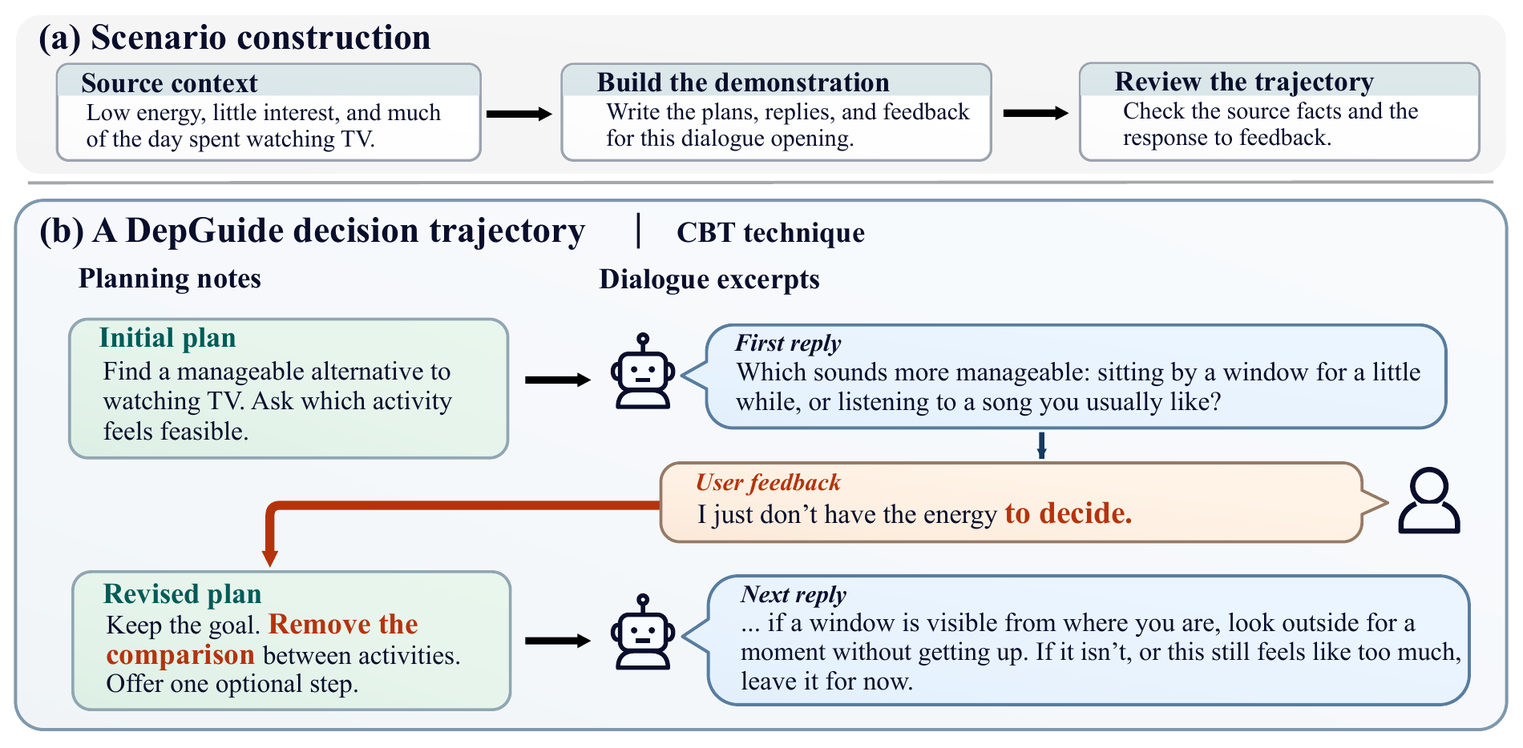
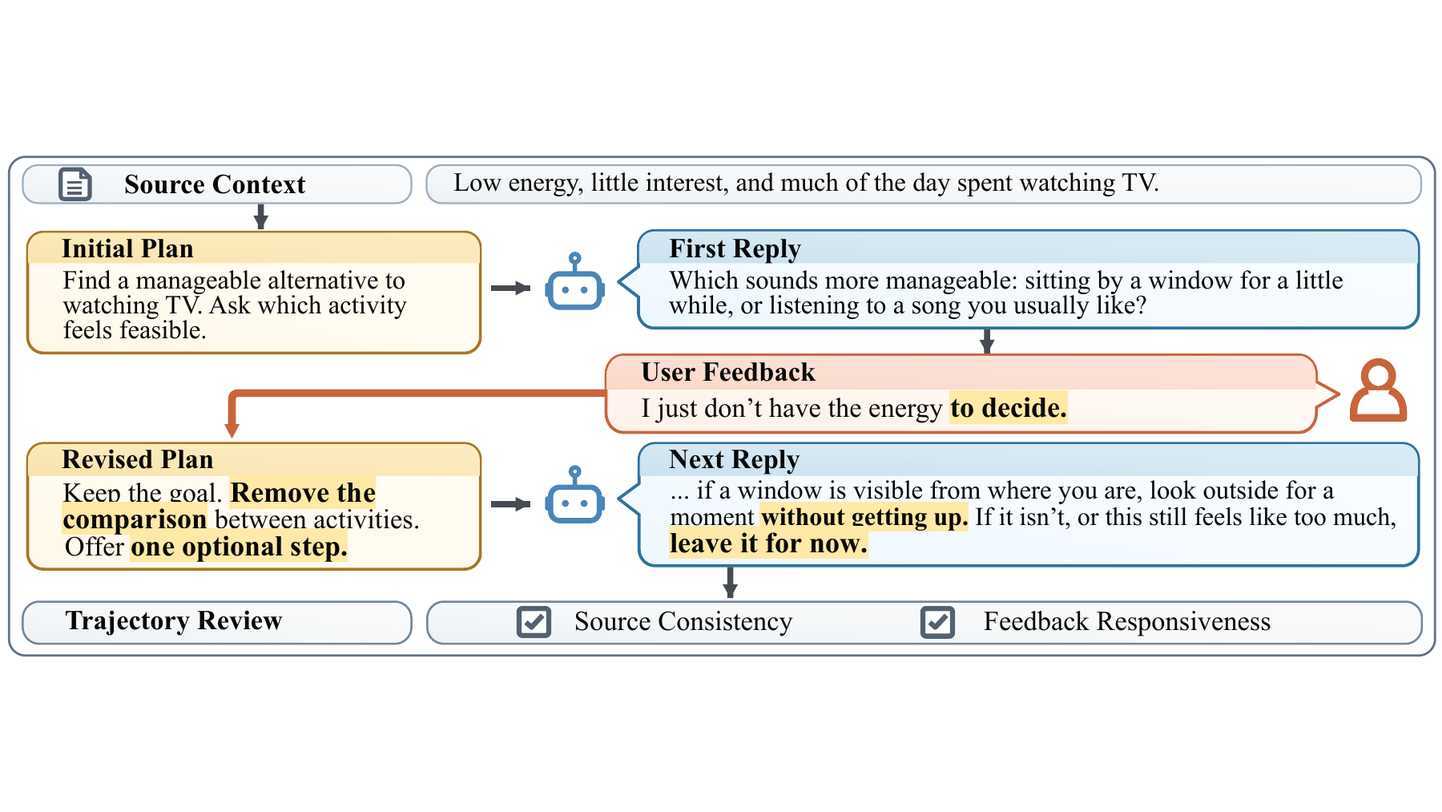
Sync README and figures with the latest AIDA manuscript

diff --git a/README.md b/README.md
@@ -1,13 +1,15 @@
 # AIDA
 
-*AIDA: Unifying Multimodal Depression Assessment And Intervention Through Closed-Loop Planning*
+*AIDA: Unifying Multimodal Depression Assessment and Intervention through Closed-Loop Planning*
 
-**Assessment-Informed Dialogue Adaptation (AIDA)** connects multimodal depression assessment to a concrete intervention plan. When a user explains why a proposed step is difficult, the planner revises that step within the selected CBT technique.
+**Assessment-Informed Dialogue Adaptation (AIDA)** unifies multimodal depression assessment and intervention through an explicit, revisable plan. Assessment guides the first action, and user feedback guides subsequent revisions within the selected cognitive behavioral therapy (CBT) technique.
+
+Yibo Wang, Jisheng Dang, Bimei Wang, Jingwen Zhao, Wenjun Ma, Wei-Shi Zheng, Qi Tian, and Bin Hu.
 
 <details>
 <summary>Paper abstract</summary>
 
-Multimodal interviews can reveal the severity of depressive symptoms. Using that assessment to guide psychological intervention requires choosing a first step that fits the person’s goals and adapting it when they explain what makes it difficult. We introduce Assessment-Informed Dialogue Adaptation (AIDA), a closed-loop framework that connects multimodal depression assessment to intervention through an explicit, revisable plan. AIDA estimates the severity of depressive symptoms from facial, acoustic, and linguistic cues. Its planner uses the user’s concern, goal, readiness to act, and available severity estimate to select a cognitive behavioral therapy (CBT) technique and specify an action. A dialogue model proposes that action. When the user reports an obstacle, the planner adjusts the focus or difficulty of the exercise within the same technique, guiding the model’s next reply. We also introduce DepGuide, a bilingual dataset and interactive benchmark comprising 1,292 decision trajectories. Each trajectory records the plans and replies before and after user feedback, providing supervision for planning, execution, and revision. Paired comparisons test how access to a severity score influences the initial plan and how revising that plan changes the next action. On the Wizard-of-Oz subset of the Distress Analysis Interview Corpus (DAIC-WOZ), AIDA predicts eight-item Patient Health Questionnaire (PHQ-8) scores with a mean absolute error (MAE) of 3.37 points. In automated evaluation on 200 DepGuide test scenarios, it scores 5.275 out of 6 for intervention quality across two replies, compared with 4.480 for its Qwen3.5-9B backbone. Even when the dialogue model receives the same history and user feedback, using the revised plan improves the combined score for feedback fit and action feasibility by 0.333 points out of 4. Code is available at [the AIDA repository](https://github.com/YiboWang2002/AIDA).
+Multimodal interviews can be used to estimate depressive symptom severity, yet translating such an assessment into psychological intervention requires selecting an initial step that aligns with the individual's goals and revising it in response to reported difficulties. To address this challenge, we propose Assessment-Informed Dialogue Adaptation (AIDA), a closed-loop framework that links multimodal depression assessment to intervention through an explicit and revisable plan. AIDA estimates depressive symptom severity from facial, acoustic, and linguistic cues. A planner then uses this estimate, when available, together with the user's concern, goal, and readiness to act to select a cognitive behavioral therapy (CBT) technique and a concrete action, which a dialogue model proposes. When the user reports an obstacle, the planner revises the focus or adjusts the difficulty of the exercise within the same technique, and the revised plan guides the next reply. We also introduce DepGuide, a bilingual dataset and interactive benchmark of 1,292 decision trajectories that record plans and replies before and after user feedback, providing supervision for planning, execution, and revision. Paired comparisons on DepGuide test how access to a severity score influences the plan and how revising that plan changes the next action. On DAIC-WOZ, AIDA predicts eight-item Patient Health Questionnaire (PHQ-8) scores with a mean absolute error (MAE) of 3.37, the lowest among the compared methods. On 200 DepGuide test scenarios, it reaches an automated intervention quality score of 5.275, the highest among eight systems, including strong recent large language models, and above the 4.480 of its Qwen3.5-9B backbone. With dialogue history and user feedback held fixed, following the revised plan rather than the original one improves the combined score for feedback fit and action feasibility by 0.333. Code is available at [the AIDA repository](https://github.com/YiboWang2002/AIDA).
 
 </details>
 
@@ -17,32 +19,30 @@ Multimodal interviews can reveal the severity of depressive symptoms. Using that
 
 ### Intervention quality on DepGuide
 
-**AIDA scored 5.275/6 across 200 test scenarios, ranking third among ten systems.** Its Qwen3.5-9B backbone scored 4.480/6 under direct generation. The paired gain was **0.795 points** (95% CI [0.566, 1.030]). The largest difference was in action feasibility, which rose from 1.375 to 1.680 out of 2.
+**AIDA scores 5.275/6 across 200 test scenarios, the highest total among the eight systems compared in the paper.** Its Qwen3.5-9B backbone scores 4.480/6 under direct generation. The paired gain is **0.795**, with a 95% CI from 0.566 to 1.030. Action feasibility rises from 1.375 to 1.680 out of 2.
 
-**Table III. Two-reply intervention quality.** Each system receives the same opening. GPT-6 Luna simulates the user's feedback in response to that system's first reply and scores the completed exchange in a separate call with system identities hidden. Each dimension ranges from 0 to 2 and the total from 0 to 6. Bold scores mark the column maxima.
+**Table III. Two-reply intervention quality.** Systems receive identical openings, available synthetic PHQ-8 totals, and feedback intents. GPT-6 Luna generates feedback and scores exchanges in separate calls. Scores range from 0 to 2 per dimension and from 0 to 6 overall. Gap to AIDA is AIDA's mean total minus each baseline's. Bold scores indicate the best results in this comparison.
 
-| Method | Goal fit ↑ | Action feasibility ↑ | Feedback adaptation ↑ | Total ↑ |
-| --- | :---: | :---: | :---: | :---: |
-| [CBT-LLM](https://aclanthology.org/2024.lrec-main.261/) | 0.737 | 0.490 | 0.323 | 1.551 |
-| [CAMEL-LLAMA3](https://aclanthology.org/2024.findings-emnlp.832/) | 1.080 | 0.920 | 1.025 | 3.025 |
-| [Qwen-Max](https://help.aliyun.com/en/model-studio/qwen-max) | 1.565 | 1.305 | 1.490 | 4.360 |
-| [Qwen3.5-9B](https://huggingface.co/Qwen/Qwen3.5-9B) | 1.510 | 1.375 | 1.595 | 4.480 |
-| [Gemini-3.5-Flash](https://deepmind.google/models/model-cards/gemini-3-5-flash/) | 1.680 | 1.575 | 1.800 | 5.055 |
-| [GLM-5.3-Flash](https://huggingface.co/zai-org/GLM-5.3-Flash) | 1.730 | 1.585 | 1.740 | 5.055 |
-| [DeepSeek-V4-Flash](https://arxiv.org/abs/2606.19348) | 1.750 | 1.620 | 1.755 | 5.125 |
-| [Grok-4.6](https://x.ai/news/grok-4-6) | 1.825 | **1.775** | 1.865 | 5.465 |
-| [GPT-5.5](https://openai.com/index/gpt-5-5-system-card/) | **1.920** | 1.730 | **1.905** | **5.555** |
-| **AIDA (Ours)** | 1.810 | 1.680 | 1.785 | 5.275 |
+| Method | Goal fit ↑ | Action feasibility ↑ | Feedback adaptation ↑ | Total ↑ | Gap to AIDA |
+| --- | :---: | :---: | :---: | :---: | :---: |
+| [CBT-LLM](https://aclanthology.org/2024.lrec-main.261/) | 0.737 | 0.490 | 0.323 | 1.551 | +3.724 |
+| [CAMEL-LLAMA3](https://aclanthology.org/2024.findings-emnlp.832/) | 1.080 | 0.920 | 1.025 | 3.025 | +2.250 |
+| [Qwen-Max](https://help.aliyun.com/en/model-studio/qwen-max) | 1.565 | 1.305 | 1.490 | 4.360 | +0.915 |
+| [Qwen3.5-9B](https://huggingface.co/Qwen/Qwen3.5-9B) | 1.510 | 1.375 | 1.595 | 4.480 | +0.795 |
+| [Gemini-3.5-Flash](https://deepmind.google/models/model-cards/gemini-3-5-flash/) | 1.680 | 1.575 | **1.800** | 5.055 | +0.220 |
+| [GLM-5.3-Flash](https://huggingface.co/zai-org/GLM-5.3-Flash) | 1.730 | 1.585 | 1.740 | 5.055 | +0.220 |
+| [DeepSeek-V4-Flash](https://arxiv.org/abs/2606.19348) | 1.750 | 1.620 | 1.755 | 5.125 | +0.150 |
+| **AIDA (Ours)** | **1.810** | **1.680** | 1.785 | **5.275** | — |
 
 <p align="center">
-  <a href="assets/intervention-profiles.png"><img src="assets/intervention-profiles.png" width="1000" alt="Ten systems compared by mean two-reply score, with 95% confidence intervals. A second panel compares feedback adaptation across five user intents."></a>
+  <a href="assets/intervention-profiles.png"><img src="assets/intervention-profiles.png" width="1000" alt="Eight systems compared by mean two-reply score. The right panel compares AIDA, Qwen3.5-9B, DeepSeek-V4-Flash, and CAMEL-LLAMA3 across five feedback intents."></a>
 </p>
 
-*Figure 4. The bars show total scores with 95% confidence intervals. The right panel separates five kinds of user feedback. AIDA scored higher than its backbone in all five. When users requested an explanation (46 scenarios), feedback adaptation averaged 1.870/2 for AIDA and 1.435/2 for the backbone.*
+*Figure 4. Intervention quality on 200 DepGuide test scenarios, scored by GPT-6 Luna. Left, mean totals out of 6 combine goal fit, action feasibility, and feedback adaptation, each out of 2. Right, mean feedback adaptation out of 2 across five prespecified feedback intents for AIDA, Qwen3.5-9B, DeepSeek-V4-Flash, and CAMEL-LLAMA3. Higher scores indicate better performance.*
 
 ### PHQ-8 prediction on DAIC-WOZ
 
-**Table II. Depression severity estimation on the 47 official test interviews.** AIDA combines participant speech transcripts, acoustic descriptors, and facial measurements to estimate one PHQ-8 total per interview. MAE and RMSE are measured in PHQ-8 points before clipping. NR indicates that the comparison did not report an RMSE.
+**Table II. PHQ-8 severity estimation on 47 official DAIC-WOZ test interviews. Baseline results come from cited studies. Both AIDA variants use the same interviews. MAE and RMSE are measured on the PHQ-8 scale.**
 
 | Method | Input | MAE ↓ | RMSE ↓ |
 | --- | --- | :---: | :---: |
@@ -50,9 +50,9 @@ Multimodal interviews can reveal the severity of depressive symptoms. Using that
 | [Topic](https://doi.org/10.1145/3133944.3133945) | Text, audio, visual | 3.96 | 4.99 |
 | [RF](https://doi.org/10.1145/3133944.3133951) | Text | 3.87 | 4.98 |
 | [Dual encoder](https://doi.org/10.3389/fpsyt.2023.1160291) | Text | 3.80 | 4.67 |
-| [Symptom Prediction](https://doi.org/10.1186/s40708-023-00185-9) | Text | 3.78 | NR |
-| [MeBERT+ALL](https://aclanthology.org/2024.clinicalnlp-1.28/) | Text and lexicons | 3.59 | NR |
-| [Agarwal et al.](https://aclanthology.org/2024.lrec-main.87/) | Text | 3.52 | NR |
+| [Symptom Prediction](https://doi.org/10.1186/s40708-023-00185-9) | Text | 3.78 | — |
+| [MeBERT+ALL](https://aclanthology.org/2024.clinicalnlp-1.28/) | Text and lexicons | 3.59 | — |
+| [Agarwal et al.](https://aclanthology.org/2024.lrec-main.87/) | Text | 3.52 | — |
 | [LMIQ](https://aclanthology.org/2024.findings-emnlp.23/) | Text | 3.46 | 4.30 |
 | AIDA text (Ours) | Text | 3.38 | 4.22 |
 | **AIDA (Ours)** | Text, audio, visual | **3.37** | **4.21** |
@@ -65,7 +65,7 @@ Multimodal interviews can reveal the severity of depressive symptoms. Using that
   <a href="assets/motivation.png"><img src="assets/motivation.png" width="640" alt="A teal arrow leads from the low-energy assessment to an initial plan. Gray arrows link model replies and user feedback, and an orange arrow carries the revised plan into the next turn. In the example, the model suggests returning to an unfinished bird and stopping after one feather."></a>
 </p>
 
-*Figure 1. A PHQ-8 cue of low energy motivates one quick sketch. A daunting blank page shifts the starting point to an unfinished bird. When the user feels obliged to finish it, the planner suggests stopping after one feather.*
+*Figure 1. AIDA extends standard dialogue, shown in gray, by introducing assessment-guided initial planning in teal and feedback-driven plan revision in orange. Assessment guides a manageable first step, while successive feedback refines where to start and where to stop.*
 
 **The assessment informs the planner. The user's feedback informs the revision.** The planner can take a PHQ-8 total alongside the opening concern, select one of seven CBT techniques, and write an initial plan. The executor uses the technique, plan, and dialogue history to generate the first reply. After the user responds, the planner receives its previous plan and the updated history. In Figure 2, the request for one detail changes the next question while the technique remains Reality Testing.
 
@@ -73,7 +73,7 @@ Multimodal interviews can reveal the severity of depressive symptoms. Using that
   <a href="assets/depreplan-framework.png"><img src="assets/depreplan-framework.png" width="1000" alt="Video, audio and text inform an optional assessment. A planner selects a CBT technique and plans the reply. User feedback leads it to revise the plan before the dialogue model responds again."></a>
 </p>
 
-*Figure 2. The upper panel traces assessment, planning, and dialogue. The lower panel shows the actual change to the plan in the illustrated exchange.* [Enlarge the revision panel](assets/feedback-guided-revision.png)
+*Figure 2. Overview of AIDA. In panel a, the PHQ-8 score from multimodal assessment enters the planner alongside the user's concern to guide CBT technique selection and initial planning. The dialogue model generates a reply from the plan, and user feedback returns to the planner for revision. Panel b illustrates revision within Reality Testing, narrowing incident recall to one concrete detail.*
 
 ## The DepGuide benchmark
 
@@ -83,9 +83,9 @@ DepGuide is a bilingual benchmark built around a decision trajectory. Each scena
   <a href="assets/depguide-trajectory.png"><img src="assets/depguide-trajectory.png" width="1000" alt="A worked DepGuide trajectory links the opening, initial plan and first reply to the user’s difficulty choosing an activity, a revised plan, and the next reply."></a>
 </p>
 
-*Figure 3. In this development example, the user has too little energy to choose between sitting by a window and listening to music. The revised plan removes that choice and offers one optional step.*
+*Figure 3. Construction of a DepGuide decision trajectory illustrated by a development example. The source context grounds the initial plan and first reply. When the user indicates that choosing between two activities is itself demanding, the revised plan preserves the intervention goal and replaces the choice with one optional action. The next reply makes this action concrete by suggesting looking outside without getting up, while allowing the user to pause. Trajectory review checks consistency with the source and responsiveness to the stated feedback.*
 
-**Table I. Benchmark composition.** Scenarios derived from related source records are kept in the same split. The final three rows show how often a synthetic PHQ-8 total is available and how it was constructed.
+**Table I. Composition of 1,292 DepGuide decision trajectories. Records sharing an origin form source groups that remain disjoint across splits. Synthetic PHQ-8 totals sum existing source item scores or newly constructed scores consistent with the scenario. Unavailable denotes missing synthetic totals.**
 
 | DepGuide | Train | Dev. | Test | All |
 | --- | :---: | :---: | :---: | :---: |
@@ -98,6 +98,18 @@ DepGuide is a bilingual benchmark built around a decision trajectory. Each scena
 | From new synthetic items | 399 | 40 | 80 | 519 |
 | Unavailable | 398 | 39 | 80 | 517 |
 
+### Independent review of dataset quality
+
+Two annotators with counseling backgrounds independently reviewed **100 test scenarios**, stratified by source family, without access to automated review results. They assessed source fidelity, consistency of the available PHQ-8 total, and the reference trajectory and evaluation criteria. **In 93 of the 100 scenarios, neither annotator flagged a major issue on any applicable criterion.**
+
+| Criterion | Applicable scenarios | Agreement on major-issue presence | Gwet's AC1 |
+| --- | :---: | :---: | :---: |
+| Source fidelity | 100 | 97% | 0.97 |
+| PHQ-8 consistency | 60 | 96.7% | 0.97 |
+| Reference trajectory and evaluation criteria | 100 | 99% | 0.99 |
+
+After excluding the seven scenarios flagged by either annotator, both main paired gains remain positive on the remaining 193 scenarios, with 95% CIs above zero. These are AIDA over its backbone on complete exchanges and revised over original plans under fixed feedback. This review assesses the dataset; the expert assessment of generated dialogues is reported separately in Table IV.
+
 ## An example dialogue
 
 After an exam, the speaker wanted comfort from her mother. When the conversation turns to sending her a text, the user says she could do that but does not know how to begin. AIDA uses the speaker's own phrasing to suggest an opening line.
@@ -106,7 +118,7 @@ After an exam, the speaker wanted comfort from her mother. When the conversation
   <a href="assets/dialogue-case.png"><img src="assets/dialogue-case.png" width="1000" alt="A speaker wants comfort after an exam. When she says she could send a text but does not know how to begin, AIDA suggests an opening line using her words."></a>
 </p>
 
-*Figure 5. Seeking comfort after an exam. The opening translates the recorded speech, and the two later user turns are simulated.*
+*Figure 5. An AIDA dialogue about seeking comfort after an exam. Video, audio, and the opening concern are shown with a PHQ-8 estimate of 14.6 out of 24. Across two feedback turns, AIDA helps the user distinguish observations from interpretations and identify a concrete way to ask her mother for comfort.*
 
 The repository edition omits identifiable video frames in Figures 2 and 5.
 
@@ -114,7 +126,9 @@ The repository edition omits identifiable video frames in Figures 2 and 5.
 
 ### Holding the dialogue history fixed
 
-**Table V. Original versus revised plan on the same 200 test scenarios.** Both candidate replies come from the same executor, with the same first reply, user feedback, CBT technique, and decoding settings. Only the plan changes. An evaluator rates feedback fit and action feasibility for both anonymous replies in both orders. The score for each reply is averaged over presentation orders, and the 95% intervals use 2,000 source-group bootstrap samples.
+**Following the revised plan raises the combined reply score from 3.103 to 3.435**, even when the dialogue model already sees the same history and user feedback.
+
+**Table V. Effect of plan revision in 200 paired DepGuide scenarios. History, feedback, technique, dialogue model, and decoding are fixed. GPT-6 Luna scores replies 0 to 2 per dimension and 0 to 4 overall. Gains are Revised minus Original, averaged over both orders, with 95% source-group bootstrap CIs.**
 
 | Metric | Original plan | Revised plan | Paired gain | 95% CI |
 | --- | :---: | :---: | :---: | :---: |
@@ -126,11 +140,11 @@ The repository edition omits identifiable video frames in Figures 2 and 5.
   <a href="assets/paired-score-differences.png"><img src="assets/paired-score-differences.png" width="585" alt="Distribution of 200 paired score differences for the same user feedback. The revised plan scores higher in 90 cases, equally in 50 and lower in 60."></a>
 </p>
 
-*Figure 6. Each observation is the revised-plan score minus the original-plan score for one scenario. The revised plan scored higher in 90 scenarios, equally in 50, and lower in 60.*
+*Figure 6. Paired effects of plan revision on 200 DepGuide test scenarios. The horizontal axis shows revised-plan minus original-plan reply scores, and the vertical axis counts scenarios. Scores combine feedback fit and action feasibility for a total out of 4 and are averaged over both presentation orders. History, feedback, CBT technique, and dialogue model are held fixed.*
 
 ### Expert review of the full exchange
 
-**Table IV. One blinded expert rated the first 60 pairs of complete dialogues in the randomized test order.** The expert gave AIDA the higher total in 46 pairs, equal totals in nine, and the lower total in five. The largest difference was in feedback adaptation. Each dimension is scored from 0 to 2 and the total from 0 to 6.
+**Table IV. Mean ratings from one blinded expert on the first 60 pairs in randomized DepGuide test order, comparing AIDA with direct Qwen3.5-9B generation. Complete two-reply exchanges are scored from 0 to 2 per dimension and 0 to 6 overall.** AIDA received the higher total in 46 pairs, equal totals in nine, and the lower total in five. The largest difference was in feedback adaptation.
 
 | Method | Goal fit ↑ | Action feasibility ↑ | Feedback adaptation ↑ | Total ↑ |
 | --- | :---: | :---: | :---: | :---: |
@@ -139,7 +153,9 @@ The repository edition omits identifiable video frames in Figures 2 and 5.
 
 ### Contributions of the planner and executor
 
-**Table VI. Three configurations on the same 200 complete exchanges.** Giving the backbone a trained planner increased the mean total by 0.390/6. Training the executor added another 0.405/6. The two middle columns distinguish the 120 scenarios with a synthetic PHQ-8 total from the 80 without one. Paired gains and confidence intervals compare consecutive rows on all 200 scenarios.
+Giving the backbone a trained planner raises the mean total from **4.480 to 4.870**. Training the executor raises it further to **5.275**.
+
+**Table VI. Planning and execution contributions on 200 DepGuide scenarios. GPT-6 Luna rates two-reply exchanges on goal fit, action feasibility, and feedback adaptation, each scored from 0 to 2 for a total out of 6. All covers the full set. With and Without denote the 120 scenarios with synthetic PHQ-8 totals and the 80 without. Gains compare adjacent configurations across all scenarios, with 95% source-group bootstrap CIs.**
 
 | Configuration | All ↑ | With PHQ-8 ↑ | Without PHQ-8 ↑ | Paired gain | 95% CI |
 | --- | :---: | :---: | :---: | :---: | :---: |
@@ -149,13 +165,29 @@ The repository edition omits identifiable video frames in Figures 2 and 5.
 
 ### Replies with assessment information
 
-**Table VII. Replies to user feedback in 120 DepGuide scenarios.** AIDA and its Qwen3.5-9B backbone receive the same synthetic PHQ-8 item scores. Within each pair, the simulated user expresses the same feedback intent in response to each system's proposal. Each metric is scored out of 2. The primary outcome is feedback adaptation. Paired differences are averaged across both presentation orders, with 95% confidence intervals from a source group bootstrap.
+**Table VII. Assessment-informed replies to feedback in 120 paired DepGuide scenarios. Systems receive identical synthetic PHQ-8 totals and item scores, with matched feedback intents. GPT-6 Luna sees all items and scores each metric from 0 to 2. Gains are AIDA minus Qwen3.5-9B, averaged over both orders. Bold gains have 95% source-group bootstrap CIs above zero.**
 
 | Metric ↑ | Qwen3.5-9B | AIDA (Ours) | Paired gain | 95% CI |
 | --- | :---: | :---: | :---: | :---: |
 | Feedback adaptation | 1.550 | 1.646 | +0.096 | [−0.033, 0.227] |
 | Action feasibility | 1.475 | 1.746 | **+0.271** | **[0.157, 0.387]** |
 | Response focus | 1.246 | 1.854 | **+0.608** | **[0.521, 0.697]** |
+
+### Controlled effects of assessment and planning
+
+**Item-level assessment.** With the same planner and dialogue model, adding the eight item scores to the PHQ-8 total raises response focus after feedback from **1.692 to 1.821**. The added assessment fields enter the planner, and their effect on the reply passes through its plan. Feedback follows the same intent in both conditions, and the evaluator sees the full total and item scores for both candidates.
+
+**Supplementary Table S4, replies after feedback.** The comparison covers 120 paired scenarios from 112 source groups. Each metric ranges from 0 to 2. Gains are total plus items minus total only, with 95% source-group bootstrap CIs. Feedback adaptation is the primary outcome. This is a separate paired evaluation from the model comparison in Table VII.
+
+| Metric ↑ | Total only | Total plus items | Paired gain | 95% CI |
+| --- | :---: | :---: | :---: | :---: |
+| Feedback adaptation | 1.571 | 1.671 | +0.100 | [−0.008, 0.209] |
+| Action feasibility | 1.650 | 1.717 | +0.067 | [−0.017, 0.160] |
+| Response focus | 1.692 | 1.821 | **+0.129** | **[0.052, 0.209]** |
+
+**Planner access to feedback.** Both conditions replan once, and the executor receives feedback in both. Across 200 test scenarios, letting the planner also see the feedback raises action feasibility from 1.565 to 1.675, with a paired gain of 0.110 and a 95% CI from 0.013 to 0.205. The combined score rises from 3.148 to 3.360.
+
+**Matched replanning budgets.** The backbone planner and the trained planner each revise the same initial plan once. The same trained executor generates the replies with matched decoding and token limits. Across 199 scored pairs, the trained planner raises action feasibility from 1.568 to 1.681, with a paired gain of 0.113 and a 95% CI from 0.018 to 0.205.
 
 ### Sensitivity to source composition
 
@@ -174,6 +206,8 @@ The repository edition omits identifiable video frames in Figures 2 and 5.
 Use Python 3.10 or later and a CUDA device with BF16 support for the dialogue model. Install from the repository root, then place a trained planner adapter and a dialogue adapter in `checkpoints/planner/` and `checkpoints/dialogue/`. Each contains `adapter_config.json` and `adapter_model.safetensors`. This code release uses separately supplied checkpoints and data. The shared backbone is [Qwen3.5-9B](https://huggingface.co/Qwen/Qwen3.5-9B).
 
 ```bash
+git clone https://github.com/YiboWang2002/AIDA.git
+cd AIDA
 python -m pip install -r requirements.txt
 mkdir -p work
 cat > work/case.json <<'JSON'
@@ -243,6 +277,9 @@ python -m assessment.train --stage multimodal --train work/train.csv --dev work/
 | --- | --- | --- |
 | Assessment availability | Opening, background, and decoding settings | On the 59 development scenarios with a synthetic total, the initial planner receives or omits that total. |
 | Plan revision | First reply, user feedback, CBT technique, executor, and decoding settings | On the 200 test scenarios, the executor follows either the original plan or its revision. |
+| Item-level assessment | Planner and executor checkpoints, scenario, feedback intent, and full assessment visible to the evaluator | On 120 test scenarios, the planner receives the total only or the total plus eight item scores. |
+| Planner access to feedback | Initial plan, dialogue history, executor access to feedback, and one replanning call | The planner receives or omits the latest user feedback. |
+| Matched replanning budget | History, feedback, initial plan, trained executor, decoding, and one replanning call | The trained planner replaces the backbone planner. |
 
 To generate both next replies from a single dialogue, add `--compare-plans` to the dialogue command and provide feedback. The second JSON record contains `history`, `original_plan`, `original_reply`, `revised_plan`, and `revised_reply`. Pass the shared history and both replies to `evaluation.prompts.revision_prompts` to construct the two anonymous presentations.
 
